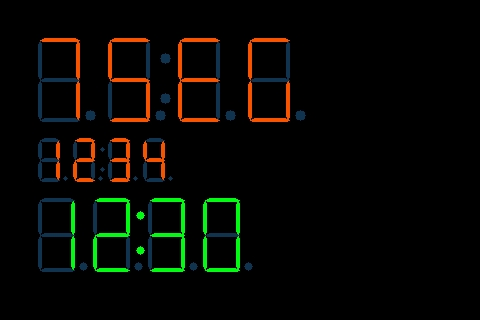
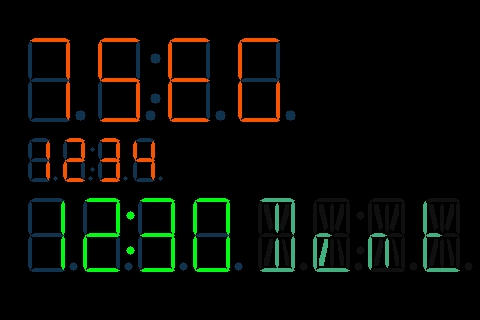
14x4 support

diff --git a/README.rst b/README.rst
@@ -27,7 +27,7 @@ On Display Simulation for an HT16K33 driver. Works with 16x8 and 8x8 matrices.
 
 .. image:: https://github.com/jposada202020/CircuitPython_DISPLAY_HT16K33/blob/master/docs/7mwahe.gif
 
-Also work with segments with a very similar sintax to the Adafruit Segments library
+Also work with segments 7x4 and 14x4 with a very similar syntax to the Adafruit Segments library
 
 .. image:: https://github.com/jposada202020/CircuitPython_DISPLAY_HT16K33/blob/master/docs/segments.jpg
 
